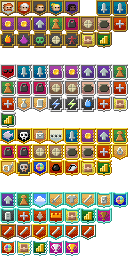
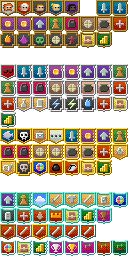
Added 3 Badges about cycles!

Changed region(s): [[0.625, 0.9375, 1.0, 1.0]]

diff --git a/core/src/main/java/com/shatteredpixel/shatteredpixeldungeon/Badges.java b/core/src/main/java/com/shatteredpixel/shatteredpixeldungeon/Badges.java
@@ -189,6 +189,11 @@ public class Badges {
 		HIGH_SCORE_5                ( 122 ),
 		CHAMPION_2                  ( 123 ),
 		CHAMPION_3                  ( 124 ),
+		CYCLE_1                 ( 125 ),
+		CYCLE_2                 ( 126 ),
+		CYCLE_3                 ( 127 ),
+
+		//Arena Masters series
 		SECOND_ARENA_MASTER			( 22 ),
 		THIRD_ARENA_MASTER			( 86 ),
 		FOURTH_ARENA_MASTER 		( 122 );
@@ -360,6 +365,27 @@ public class Badges {
 		if (!local.contains( Badge.MONSTERS_SLAIN_5 ) && Statistics.enemiesSlain >= 5000) {
 			if (badge != null) unlock(badge);
 			badge = Badge.MONSTERS_SLAIN_5;
+			local.add( badge );
+		}
+
+		displayBadge( badge );
+	}
+
+	public static void validateCycleReached() {
+		Badge badge = null;
+
+		if (!local.contains( Badge.CYCLE_1 ) && Dungeon.cycle >= 1) {
+			badge = Badge.CYCLE_1;
+			local.add( badge );
+		}
+		if (!local.contains( Badge.CYCLE_2 ) && Dungeon.cycle >= 2) {
+			if (badge != null) unlock(badge);
+			badge = Badge.CYCLE_2;
+			local.add( badge );
+		}
+		if (!local.contains( Badge.CYCLE_3 ) && Dungeon.cycle >= 3) {
+			if (badge != null) unlock(badge);
+			badge = Badge.CYCLE_3;
 			local.add( badge );
 		}
 
@@ -1073,7 +1099,7 @@ public class Badges {
 	}
 
 	public static void validateCreative(){
-		displayBadge( Badge.WAND_QUEST_3);
+		displayBadge( Badge.WAND_QUEST_3 );
 	}
 
 	public static void validateClay(){

diff --git a/core/src/main/java/com/shatteredpixel/shatteredpixeldungeon/Dungeon.java b/core/src/main/java/com/shatteredpixel/shatteredpixeldungeon/Dungeon.java
@@ -362,6 +362,7 @@ public class Dungeon {
 			if (a != LimitedDrops.BBAT && a != LimitedDrops.CHEESY_CHEEST)  a.count = 0;
         Notes.reset();
         if (cycle < 4) cycle += 1;
+		Badges.validateCycleReached();
         //GameLog.wipe();
         Generator.generalReset();
 			generatedLevels.clear();
